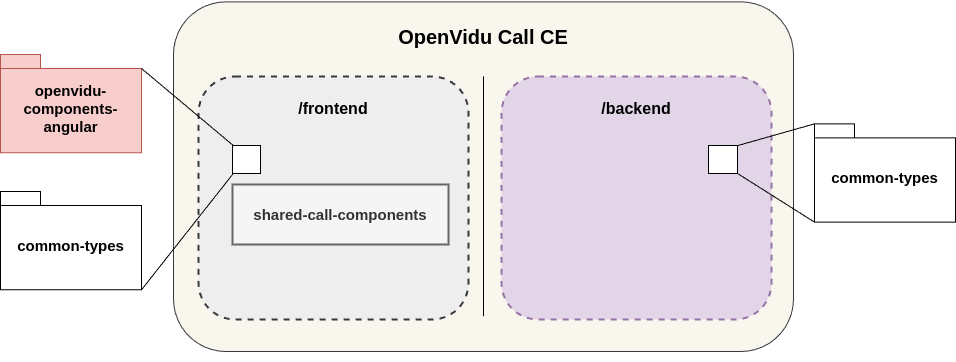
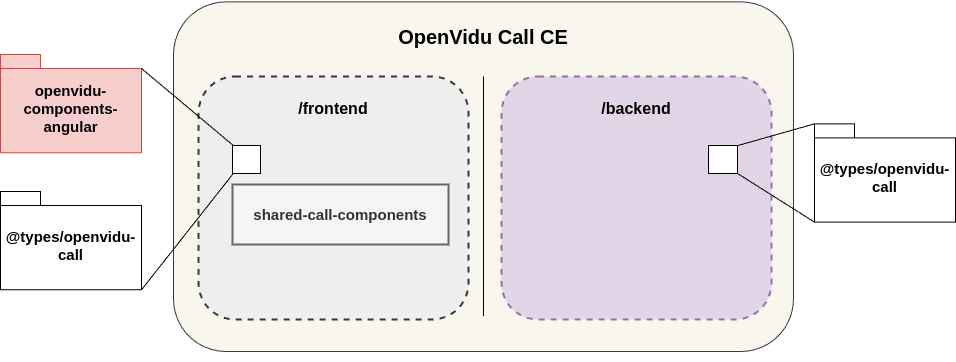
Updated README.md

Changed region(s): [[0.8494, 0.4558, 1.0, 0.547], [0.0, 0.6381, 0.1517, 0.7293]]

diff --git a/README.md b/README.md
@@ -68,10 +68,10 @@ The OpenVidu Call application is composed of two main parts (frontend and backen
   Also, the frontend project installs external dependencies on the following libraries:
 
   - [**openvidu-components-angular**](https://github.com/OpenVidu/openvidu/tree/master/openvidu-components-angular): A library of Angular components that provide the core functionality of the video conferencing service.
-  - [**common-types**](https://github.com/OpenVidu/openvidu-call/tree/next/common-types): A library of common types used by the frontend and backend.
+  - [**@types/openvidu-call**](https://github.com/OpenVidu/openvidu-call/tree/next/types): A library of common types used by the frontend and backend.
 
 - **Backend**: The backend is a Node.js application.
-  - [**common-types**](https://github.com/OpenVidu/openvidu-call/tree/next/common-types): A library of common types used by the frontend and backend.
+  - [**@types/openvidu-call**](https://github.com/OpenVidu/openvidu-call/tree/next/types): A library of common types used by the frontend and backend.
 
 ## Development
 
@@ -83,46 +83,63 @@ Clone the OpenVidu Call repository:
 git clone https://github.com/OpenVidu/openvidu-call.git --branch next
 ```
 
+### Prepare the project
+
+For building types and install dependencies, run the following command:
+
+```bash
+cd openvidu-call
+./prepare.sh
+```
+
 ### Backend
 
 1. Serve the backend application.
 
 ```bash
-cd openvidu-call/backend && \
-npm install && npm run dev:start
+cd backend && \
+npm run dev:start
 ```
 
 ### Frontend
 
-1. Build the **common-types** library.
+Opening a new tab, under root directory:
+
+1. Serve the frontend application.
 
 ```bash
-cd openvidu-call/common-types && \
-npm install && npm run sync-ce
-```
-
-> NOTE: If you plan to make changes to the **common-types** library, the best idea is serve it locally. To do this, follow the instructions below:
-
-```bash
-npm run serve
-```
-
-2. Serve the **shared-call-components** library.
-
-```bash
-cd ../frontend && \
-npm install && npm run lib:serve
-```
-
-3. Serve the frontend application.
-
-**Opening another terminal**:
-
-```bash
+cd frontend && \
 npm run dev:start
 ```
 
 After running these commands, you can access the frontend application at [http://localhost:5080](http://localhost:5080).
+
+---
+
+> [!NOTE]
+> As the frontend project uses **shared-call-components** and **@types/openvidu-call** libraries, you could need make changes to these libraries when developing and have the changes reflected in the frontend application. To do this, follow the instructions below:
+
+- Stop the backend and frontend processes.
+
+- Serve the **common-types** library.
+
+```bash
+cd types && \
+npm run serve
+```
+
+> This command will make your terminal busy, so you need to open a new terminal to continue with the next steps.
+
+- Serve the **shared-call-components** library.
+
+```bash
+cd frontend && \
+npm run lib:serve
+```
+
+> This command will make your terminal busy, so you need to open a new terminal to continue with the next steps.
+
+- Serve the backend and frontend applications again.
 
 
 ## Build (with docker)
